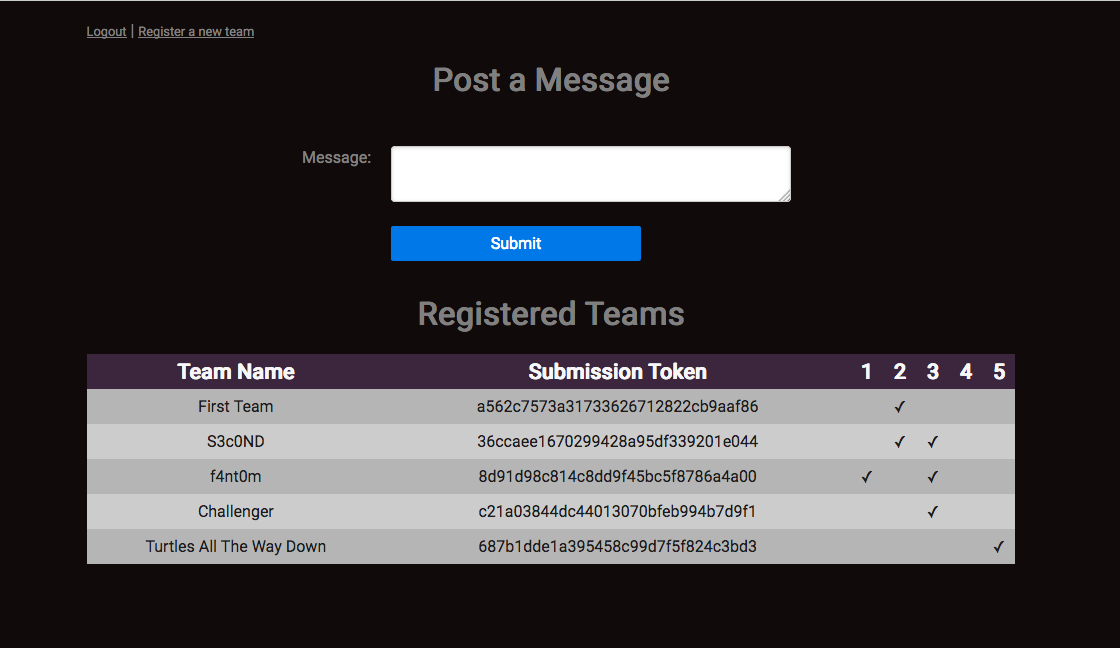
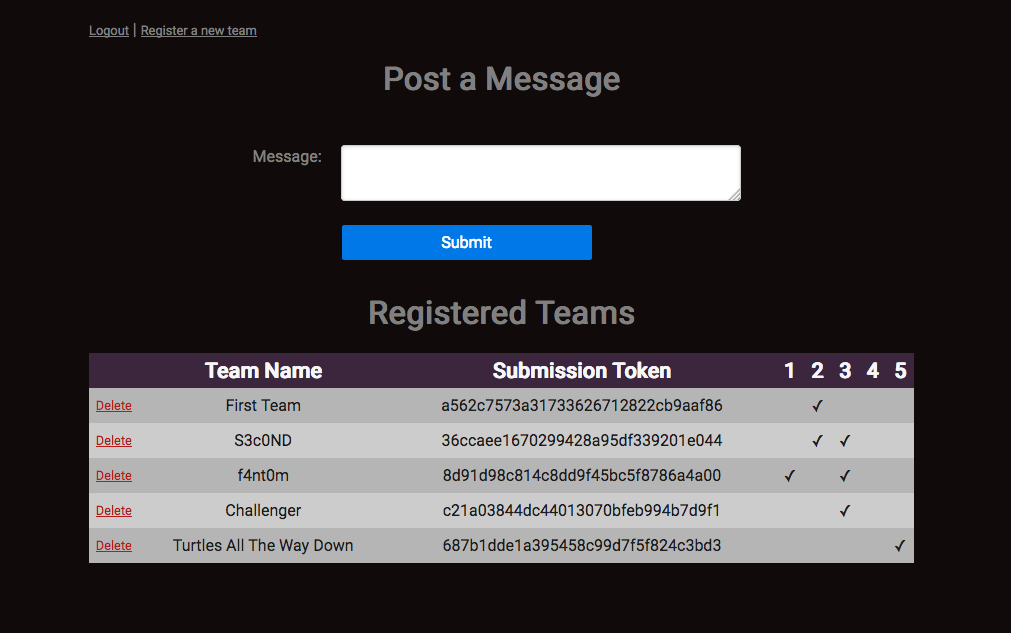
Add screenshot of admin page with delete buttons

diff --git a/README.md b/README.md
@@ -6,7 +6,7 @@ A scoreboard application for capture the flag events, designed with a retro hack
 ![Scoreboard Screenshot](https://u.nya.is/fpwpmj.png)
 
 **The Admin Panel**
-![Admin Panel Screenshot](https://u.nya.is/rdxsgs.png)
+![Admin Panel Screenshot](https://u.nya.is/vmzrfd.png)
 
 **The Messages Page**
 ![Messages Screenshot](https://u.nya.is/yxbyxc.png)
